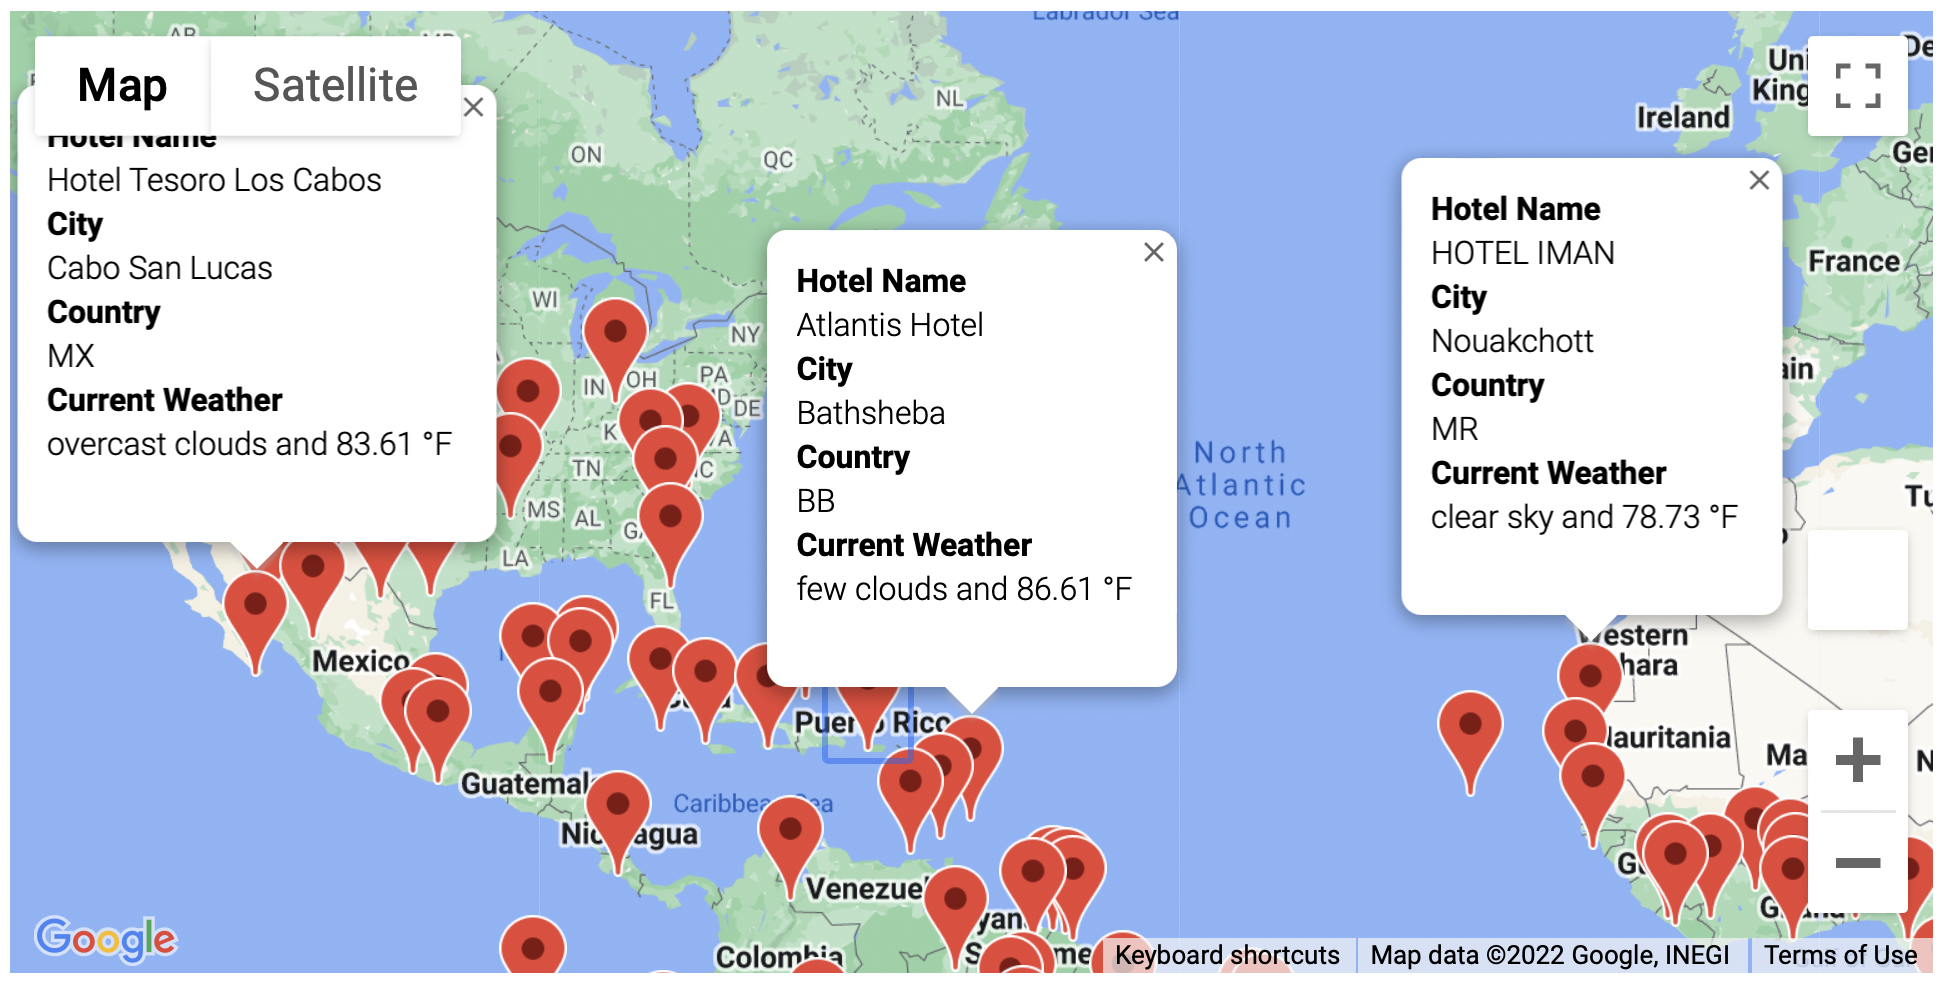
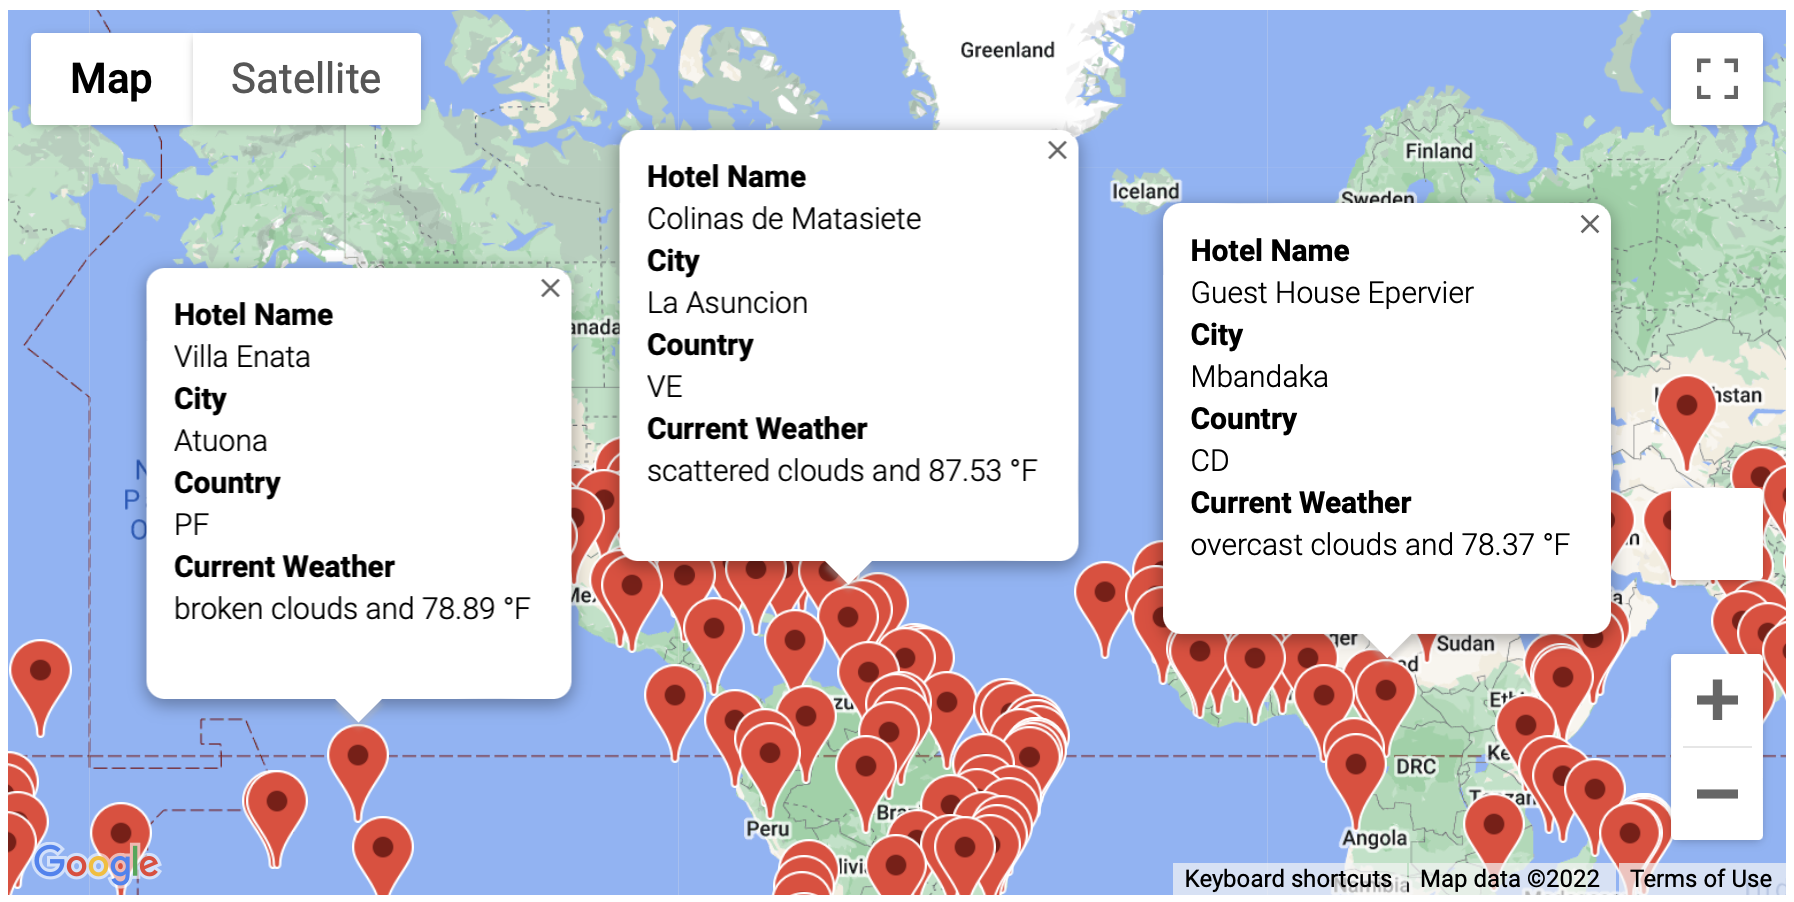
updated images and readme

diff --git a/README.md b/README.md
@@ -1,2 +1,47 @@
-# api_wk6
-api_wk6
+# PlanMyTrip Application Enhancements
+
+## Overview of Analysis
+
+PlanMyTrip is an app used to assist users in planning their vacation. With its recent adoption users were looking for additional enhacements to take this application to the next level.
+
+The initial recommendation is to add the weather description to the weather data to give the users clarity on the weather. From here the users should be able to enter their preferred temperature with which the app will filter to potential travel destinations and hotels nearby them. Finally once the user chooses their preferred travel destination spots, the app should be able to build an itinerary between these destinations.
+
+## Resources
+- Data Source: open weather api, google api
+- Software: Python 3.9.7, Jupyter Notebook
+
+---
+
+## Application Features and Results
+
+Below are the modules that were built for this enhancement:
+
+1. Weather Database
+
+This module was built to randomly choose destination spots and retrieve different weather details like temperature, humidity, cloudiness, wind speed and weather description. Below is a sample dataset pulled through the process.
+
+![SampleWeatherDetails](Weather_Database/SampleWeatherDetails.png)
+
+2. Vacation Search
+
+Using the vacation search, the users were given the capability to enter their preferred temperature and filter to locations they prefer. This module would then identify hotels nearby these destnations and show a map with markers for users to view. Below is an example image:
+
+![WeatherPy_vacation_map](Vacation_Search/WeatherPy_vacation_map.png)
+
+3. Vacation Itinerary
+
+In this module the users were given the option to choose 4 destinations and it would build both an itinerary and markers with hotel details in those destinations. Example:
+
+- Itinerary using google directions
+
+![WeatherPy_travel_map](Vacation_Itinerary/WeatherPy_travel_map.png)
+
+- Hotel markers at selected destinations
+
+![WeatherPy_travel_map_markers](Vacation_Itinerary/WeatherPy_travel_map_markers.png)
+
+---
+
+## Application Enhancements Summary
+
+The applications has now been taken to the next level with features enabling users to select destinations to their preference and also build a travel plan along with hotels making it so flexible.
